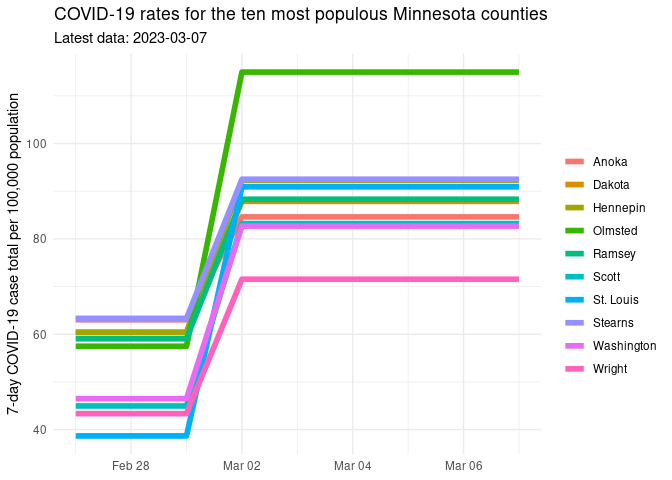
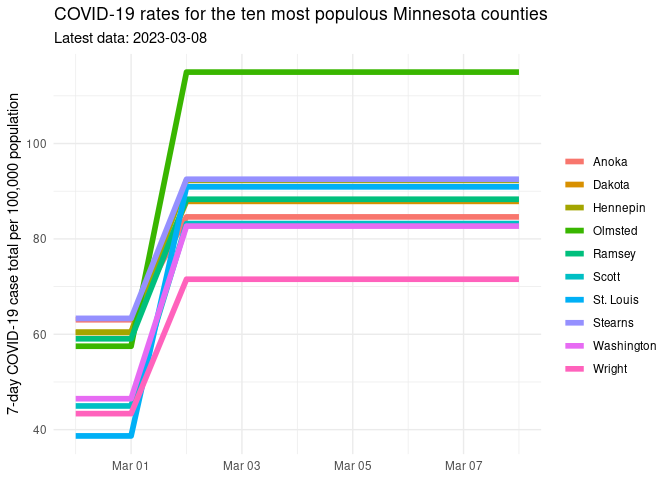
Updated report

Changed region(s): [[0.1562, 0.125, 0.375, 1.0], [0.2812, 0.0625, 0.3125, 0.0938]]

diff --git a/README.md b/README.md
@@ -1,7 +1,7 @@
 Minnesota COVID Report
 ================
 
-Report last run: 2023-03-08 22:13:01
+Report last run: 2023-03-09 22:13:45
 
 ## Introduction
 
@@ -106,25 +106,25 @@ rate_data %>%
   knitr::kable()
 ```
 
-| county             | state        |     pop | covid_rate |
-|:-------------------|:-------------|--------:|-----------:|
-| Loving             | Texas        |     169 |       2367 |
-| Clark              | Kansas       |    1994 |        802 |
-| Rawlins            | Kansas       |    2530 |        593 |
-| Rolette            | North Dakota |   14176 |        578 |
-| Union              | Kentucky     |   14381 |        570 |
-| Traverse           | Minnesota    |    3259 |        552 |
-| Miami-Dade         | Florida      | 2716940 |        508 |
-| Bethel Census Area | Alaska       |   18386 |        506 |
-| Jackson            | Florida      |   46414 |        489 |
-| Gadsden            | Florida      |   45660 |        466 |
-| Hamilton           | Nebraska     |    9324 |        461 |
-| Concho             | Texas        |    2726 |        440 |
-| Menominee          | Wisconsin    |    4556 |        439 |
-| Oglala Lakota      | South Dakota |   14177 |        423 |
-| Petroleum          | Montana      |     487 |        411 |
-| Sargent            | North Dakota |    3898 |        410 |
-| Lemhi              | Idaho        |    8027 |        399 |
-| Pawnee             | Kansas       |    6414 |        390 |
-| Todd               | South Dakota |   10177 |        383 |
-| Suwannee           | Florida      |   44417 |        374 |
+| county                   | state        |     pop | covid_rate |
+|:-------------------------|:-------------|--------:|-----------:|
+| Mineral                  | Colorado     |     769 |       1170 |
+| Hodgeman                 | Kansas       |    1794 |        669 |
+| Lamb                     | Texas        |   12893 |        667 |
+| Rolette                  | North Dakota |   14176 |        578 |
+| Union                    | Kentucky     |   14381 |        570 |
+| Traverse                 | Minnesota    |    3259 |        552 |
+| Miami-Dade               | Florida      | 2716940 |        508 |
+| Bethel Census Area       | Alaska       |   18386 |        506 |
+| Jackson                  | Florida      |   46414 |        489 |
+| Gadsden                  | Florida      |   45660 |        466 |
+| Hamilton                 | Nebraska     |    9324 |        461 |
+| Petroleum                | Montana      |     487 |        411 |
+| Sargent                  | North Dakota |    3898 |        410 |
+| Clark                    | Kansas       |    1994 |        401 |
+| Gove                     | Kansas       |    2636 |        379 |
+| Suwannee                 | Florida      |   44417 |        374 |
+| Northwest Arctic Borough | Alaska       |    7621 |        367 |
+| Tazewell                 | Virginia     |   40595 |        362 |
+| Campbell                 | Tennessee    |   39842 |        356 |
+| Leon                     | Florida      |  293582 |        356 |
